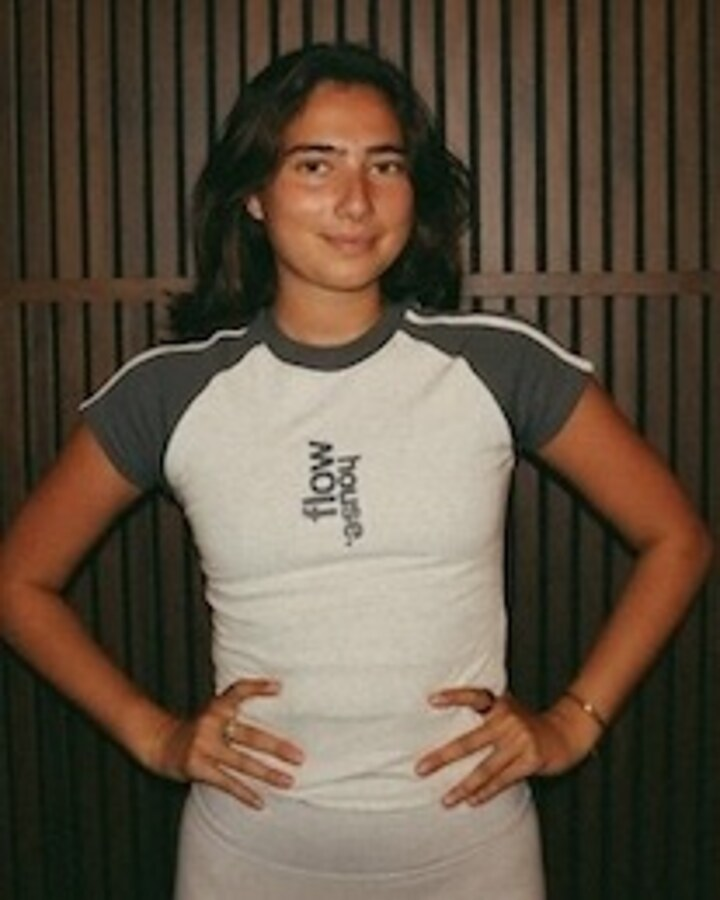
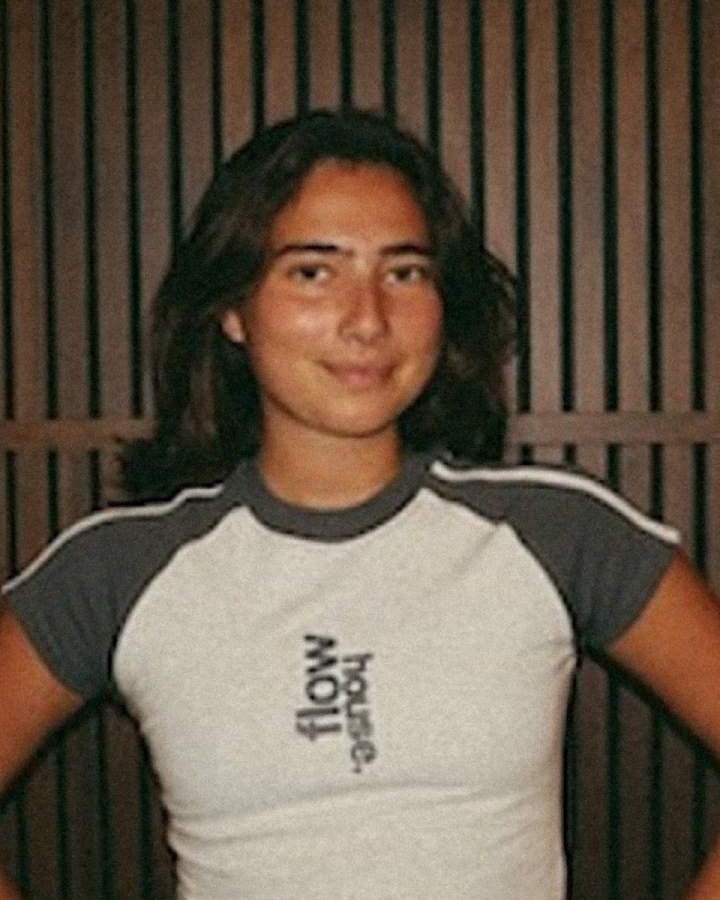
Team page: remove hero block; reframe + enhance Sam and Key photos to match roster

diff --git a/src/team.html b/src/team.html
@@ -85,27 +85,6 @@
 
   <main id="main">
 
-    <!-- HERO -->
-    <section class="hero">
-      <div class="container">
-        <div class="hero__grid">
-          <div class="hero__copy" data-reveal>
-            <span class="eyebrow">the team · flowhouse</span>
-            <h1>The people behind <em>the practice.</em></h1>
-            <p class="lead">flowhouse is being built by people who love to teach. Our founding team is coming together now — and we're welcoming the instructors who'll shape our first year in Rehoboth Beach.</p>
-            <div class="hero__cta-row">
-              <a href="#teach" class="btn btn--primary">Teach at flowhouse</a>
-              <a href="about.html" class="btn btn--ghost">Meet Sam, our founder</a>
-            </div>
-          </div>
-          <div class="hero__image-frame" data-reveal>
-            <img src="images/v4/team-hero-2026.jpg" alt="Four women on the custom flowhouse FlowFormer reformers in the studio, against a warm walnut wood-slat wall.">
-            <span class="hero__image-badge">Founding team · 2026</span>
-          </div>
-        </div>
-      </div>
-    </section>
-
     <!-- FOUNDING TEAM — COMING SOON -->
     <section class="section team-house">
       <div class="container">

diff --git a/team.html b/team.html
@@ -85,27 +85,6 @@
 
   <main id="main">
 
-    <!-- HERO -->
-    <section class="hero">
-      <div class="container">
-        <div class="hero__grid">
-          <div class="hero__copy" data-reveal>
-            <span class="eyebrow">the team · flowhouse</span>
-            <h1>The people behind <em>the practice.</em></h1>
-            <p class="lead">flowhouse is being built by people who love to teach. Our founding team is coming together now — and we're welcoming the instructors who'll shape our first year in Rehoboth Beach.</p>
-            <div class="hero__cta-row">
-              <a href="#teach" class="btn btn--primary">Teach at flowhouse</a>
-              <a href="about.html" class="btn btn--ghost">Meet Sam, our founder</a>
-            </div>
-          </div>
-          <div class="hero__image-frame" data-reveal>
-            <img src="images/v4/team-hero-2026.jpg" alt="Four women on the custom flowhouse FlowFormer reformers in the studio, against a warm walnut wood-slat wall.">
-            <span class="hero__image-badge">Founding team · 2026</span>
-          </div>
-        </div>
-      </div>
-    </section>
-
     <!-- FOUNDING TEAM — COMING SOON -->
     <section class="section team-house">
       <div class="container">
